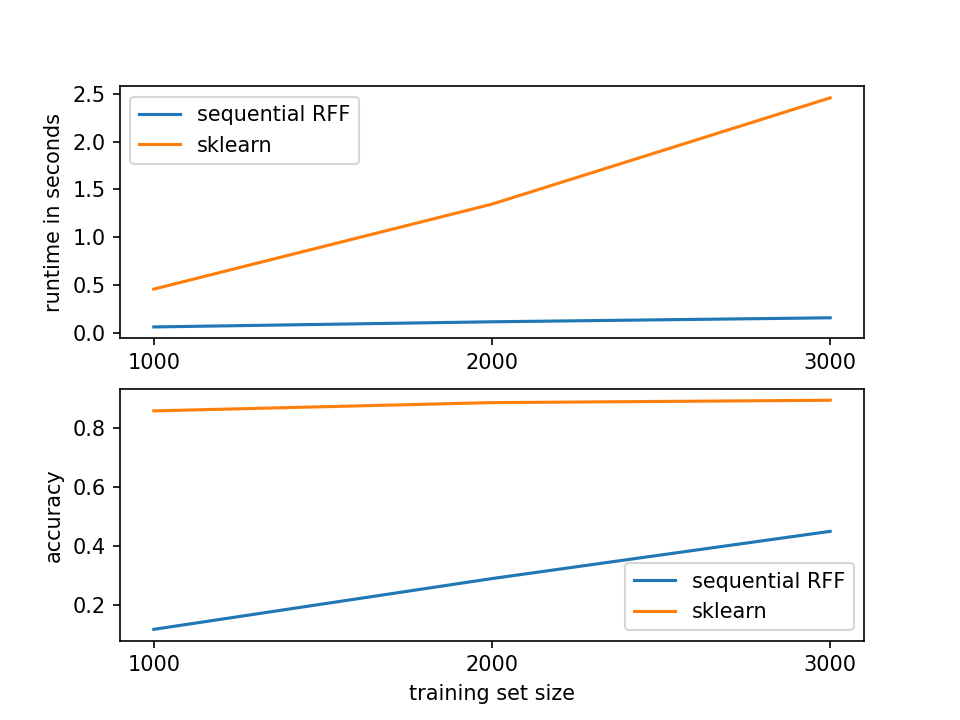
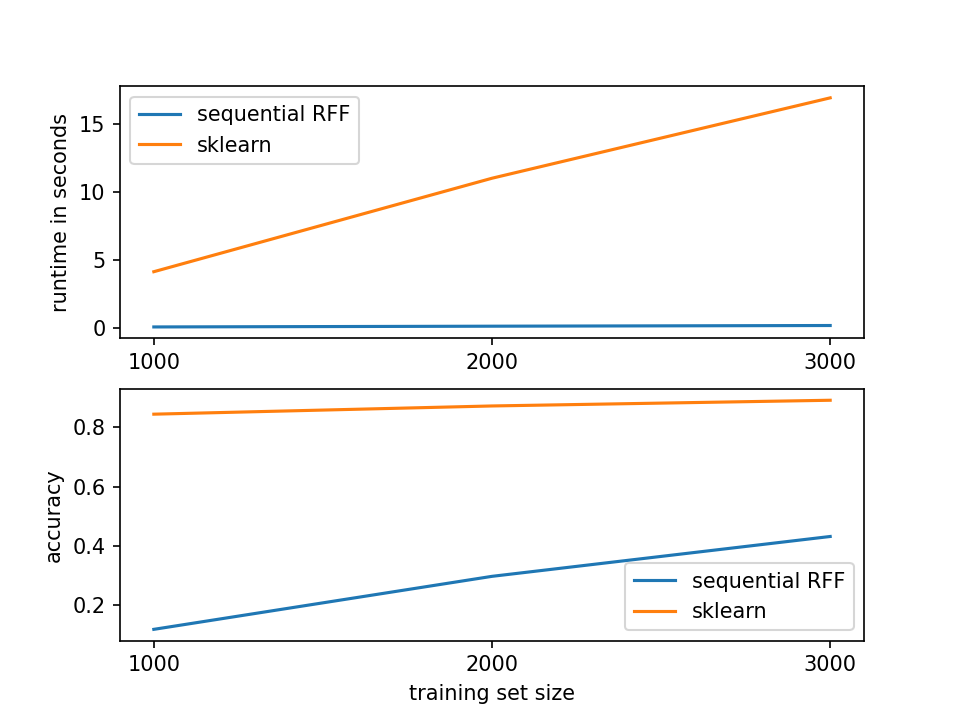
Not better but different

diff --git a/runner_mnist.py b/runner_mnist.py
@@ -27,8 +27,8 @@ def runner_mnist(path):
 
     # define learning rate and regularization parameter range for gridsearch:
     lr_params = [1e2, 1e1, 1, 1e-1, 1e-2, 1e-3]
-    reg_params = [1e-1, 1e-2, 1e-3, 1e-4, 1e-5]
-    '''
+    reg_params = [1e0, 1e-1, 1e-2, 1e-3, 1e-4, 1e-5]
+
     # run sequential linear svm
     print('\n--- Sequential Linear SVM ---')
     lr, reg = gridsearch(sequential_svm, X_train, X_test, y_train, y_test, lr_params, reg_params)
@@ -37,13 +37,31 @@ def runner_mnist(path):
     _, runtime, accuracy = sequential_svm(X_train, X_test, y_train, y_test, lr, reg)
     print('Runtime with best parameters: {}'.format(runtime))
     print('Accuracy with best parameters: {}'.format(accuracy))
-    '''
-    # ---------- Compute RFF Features ----------
-    # using only 3000 training samples and 500 test samples
-    X_train = X_train[:3000]
-    X_test = X_test[:500]
-    y_train = y_train[:3000]
-    y_test = y_test[:500]
+
+    # run parallel linear svm
+    print('\n--- Parallel Linear SVM ---')
+    lr, reg = gridsearch(parallel_svm, X_train, X_test, y_train, y_test, lr_params, reg_params)
+    print('Best learning rate: {}'.format(lr))
+    print('Best regularization parameter: {}'.format(reg))
+    _, runtime, accuracy = parallel_svm(X_train, X_test, y_train, y_test, lr, reg)
+    print('Runtime with best parameters: {}'.format(runtime))
+    print('Accuracy with best parameters: {}'.format(accuracy))
+
+    # run parallel linear svm with increasing number of machines
+    print('Running parallel linear svm with increasing number of machines...')
+    number_of_machines = [1, 2, 3, 4, 5, 6, 7, 8]
+    parallel_runtimes = []
+    parallel_accuracies = []
+    for num_threads in number_of_machines:
+        _, runtime, accuracy = parallel_svm(X_train, X_test,
+                                            y_train, y_test, lr, reg, num_threads)
+        parallel_runtimes.append(runtime)
+        parallel_accuracies.append(accuracy)
+
+    #X_train = X_train[:3000]
+    #X_test = X_test[:500]
+    #y_train = y_train[:3000]
+    #y_test = y_test[:500]
 
     # Create RFF features
     print('\n--- Compute RFF features ---')
@@ -60,15 +78,6 @@ def runner_mnist(path):
     print('Best learning rate: {}'.format(lr_seq))
     print('Best regularization parameter: {}'.format(reg_seq))
     _, runtime, accuracy = sequential_svm(X_rff_train, X_rff_test, y_train, y_test, lr_seq, reg_seq)
-    print('Runtime with best parameters: {}'.format(runtime))
-    print('Accuracy with best parameters: {}'.format(accuracy))
-
-    # run parallel linear svm
-    print('\n--- Parallel Linear SVM ---')
-    lr, reg = gridsearch(parallel_svm, X_train, X_test, y_train, y_test, lr_params, reg_params)
-    print('Best learning rate: {}'.format(lr))
-    print('Best regularization parameter: {}'.format(reg))
-    _, runtime, accuracy = parallel_svm(X_train, X_test, y_train, y_test, lr, reg)
     print('Runtime with best parameters: {}'.format(runtime))
     print('Accuracy with best parameters: {}'.format(accuracy))
 
@@ -112,3 +121,5 @@ def runner_mnist(path):
     axs[1].set_ylabel('accuracy')
     axs[1].legend()
     plt.savefig('output/mnist_sequential_rff_vs_sklearn.png', dpi=150)
+
+    return number_of_machines, parallel_runtimes, parallel_accuracies

diff --git a/runner_toydata.py b/runner_toydata.py
@@ -34,8 +34,8 @@ def runner_toydata(path, tiny):
     print(f"Accuracy: {accuracy_sklearn_svc}")
 
     # define learning rate and regularization parameter range for gridsearch:
-    lr_params = [1, 1e-1, 1e-2, 1e-3]
-    reg_params = [1, 1e-1, 1e-2, 1e-3]
+    lr_params = [1e2, 1e1, 1, 1e-1, 1e-2, 1e-3]
+    reg_params = [1e0, 1e-1, 1e-2, 1e-3, 1e-4, 1e-5]
 
     # run sequential linear svm
     print('\n--- Sequential Linear SVM ---')
@@ -48,7 +48,26 @@ def runner_toydata(path, tiny):
     print('Accuracy with best parameters: {}'.format(accuracy))
     sgd_progress_linear = sgd_progress(sequential_svm, X_train, X_test, y_train, y_test, lr, reg)
 
-    # ---------- Compute RFF Features ----------
+    # run parallel linear svm
+    print('\n--- Parallel Linear SVM ---')
+    lr, reg = gridsearch(parallel_svm, X_train, X_test, y_train, y_test, lr_params, reg_params)
+    print('Best learning rate: {}'.format(lr))
+    print('Best regularization parameter: {}'.format(reg))
+    y_pred_par_linear, runtime, accuracy = five_fold_cross_validation(parallel_svm, X_train, X_test,
+                                                                      y_train, y_test, lr, reg)
+    print('Runtime with best parameters: {}'.format(runtime))
+    print('Accuracy with best parameters: {}'.format(accuracy))
+
+    # run parallel linear svm with increasing number of machines
+    print('Running parallel linear svm with increasing number of machines...')
+    number_of_machines = [1, 2, 3, 4, 5, 6, 7, 8]
+    parallel_runtimes = []
+    parallel_accuracies = []
+    for num_threads in number_of_machines:
+        _, runtime, accuracy = five_fold_cross_validation(parallel_svm, X_train, X_test,
+                                                          y_train, y_test, lr, reg, num_threads)
+        parallel_runtimes.append(runtime)
+        parallel_accuracies.append(accuracy)
 
     # Create RFF features
     print('\n--- Compute RFF features ---')
@@ -71,16 +90,6 @@ def runner_toydata(path, tiny):
     print('Runtime with best parameters: {}'.format(runtime))
     print('Accuracy with best parameters: {}'.format(accuracy))
     sgd_progress_rff = sgd_progress(sequential_svm, X_rff_train, X_rff_test, y_train, y_test, lr, reg)
-
-    # run parallel linear svm
-    print('\n--- Parallel Linear SVM ---')
-    lr, reg = gridsearch(parallel_svm, X_train, X_test, y_train, y_test, lr_params, reg_params)
-    print('Best learning rate: {}'.format(lr))
-    print('Best regularization parameter: {}'.format(reg))
-    y_pred_par_linear, runtime, accuracy = five_fold_cross_validation(parallel_svm, X_train, X_test,
-                                                                      y_train, y_test, lr, reg)
-    print('Runtime with best parameters: {}'.format(runtime))
-    print('Accuracy with best parameters: {}'.format(accuracy))
 
     # run parallel RFF svm
     print('\n--- Parallel RFF SVM ---')
@@ -109,3 +118,5 @@ def runner_toydata(path, tiny):
 
     if not tiny:
         plot_sgd_convergence(sgd_progress_linear, sgd_progress_rff, 'output/sgd_progress_large.png')
+
+    return number_of_machines, parallel_runtimes, parallel_accuracies

diff --git a/utils.py b/utils.py
@@ -34,14 +34,19 @@ def gridsearch(method, X_train, X_test, y_train, y_test, lr_params, reg_params):
     return params[max_accuracy_index]
 
 
-def five_fold_cross_validation(method, X_train, X_test, y_train, y_test, lr, reg):
+def five_fold_cross_validation(method, X_train, X_test, y_train, y_test, lr, reg, num_threads=None):
     y_pred = None
     runtimes = []
     accuracies = []
 
     for _ in range(5):
-        y_pred, runtime, accuracy = method(X_train, X_test, y_train, y_test,
-                                           learning_rate=lr, regularization=reg)
+        if num_threads:
+            y_pred, runtime, accuracy = method(X_train, X_test, y_train, y_test,
+                                               learning_rate=lr, regularization=reg,
+                                               num_threads=num_threads)
+        else:
+            y_pred, runtime, accuracy = method(X_train, X_test, y_train, y_test,
+                                               learning_rate=lr, regularization=reg)
         accuracies.append(accuracy)
         runtimes.append(runtime)
 
@@ -90,3 +95,27 @@ def two_dim_scatterplot(data, labels, path):
     plt.xlabel(r"$x_1$", fontsize=14)
     plt.ylabel(r"$x_2$", fontsize=14)
     plt.savefig(path, dpi=150, format='png')
+
+
+def plot_parallel_runtimes(number_of_machines_tiny, number_of_machines_large, number_of_machines_mnist,
+                           parallel_runtimes_tiny, parallel_runtimes_large, parallel_runtimes_mnist, path):
+    plt.figure(figsize=(10, 10))
+    plt.plot(number_of_machines_tiny, parallel_runtimes_tiny)
+    plt.plot(number_of_machines_large, parallel_runtimes_large)
+    plt.plot(number_of_machines_mnist, parallel_runtimes_mnist)
+    plt.xlabel('Number of machines')
+    plt.ylabel('Runtime in seconds')
+    plt.legend(['tiny toydata', 'large toydata', 'MNIST'])
+    plt.savefig(path, dpi=150)
+
+
+def plot_parallel_accuracies(number_of_machines_tiny, number_of_machines_large, number_of_machines_mnist,
+                             parallel_accuracies_tiny, parallel_accuracies_large, parallel_accuracies_mnist, path):
+    plt.figure(figsize=(10, 10))
+    plt.plot(number_of_machines_tiny, parallel_accuracies_tiny)
+    plt.plot(number_of_machines_large, parallel_accuracies_large)
+    plt.plot(number_of_machines_mnist, parallel_accuracies_mnist)
+    plt.xlabel('Number of machines')
+    plt.ylabel('Accuracy')
+    plt.legend(['tiny toydata', 'large toydata', 'MNIST'])
+    plt.savefig(path, dpi=150)

diff --git a/main.py b/main.py
@@ -1,5 +1,6 @@
 from runner_toydata import runner_toydata
 from runner_mnist import runner_mnist
+from utils import plot_parallel_runtimes, plot_parallel_accuracies
 
 
 if __name__ == '__main__':
@@ -10,6 +11,14 @@ if __name__ == '__main__':
     mnist = 'data/mnist.npz'
 
     # run procedures on all three datasets
-    runner_toydata(toy_tiny, tiny=True)
-    runner_toydata(toy_large, tiny=False)
-    runner_mnist(mnist)
+    number_of_machines_tiny, parallel_runtimes_tiny, parallel_accuracies_tiny = runner_toydata(toy_tiny, tiny=True)
+    number_of_machines_large, parallel_runtimes_large, parallel_accuracies_large = runner_toydata(toy_large, tiny=False)
+    number_of_machines_mnist, parallel_runtimes_mnist, parallel_accuracies_mnist = runner_mnist(mnist)
+
+    # plot runtimes and accuracies from parallel screening
+    plot_parallel_runtimes(number_of_machines_tiny, number_of_machines_large, number_of_machines_mnist,
+                           parallel_runtimes_tiny, parallel_runtimes_large, parallel_runtimes_mnist,
+                           'output/parallel_runtimes.png')
+    plot_parallel_accuracies(number_of_machines_tiny, number_of_machines_large, number_of_machines_mnist,
+                             parallel_accuracies_tiny, parallel_accuracies_large, parallel_accuracies_mnist,
+                             'output/parallel_accuracies.png')
